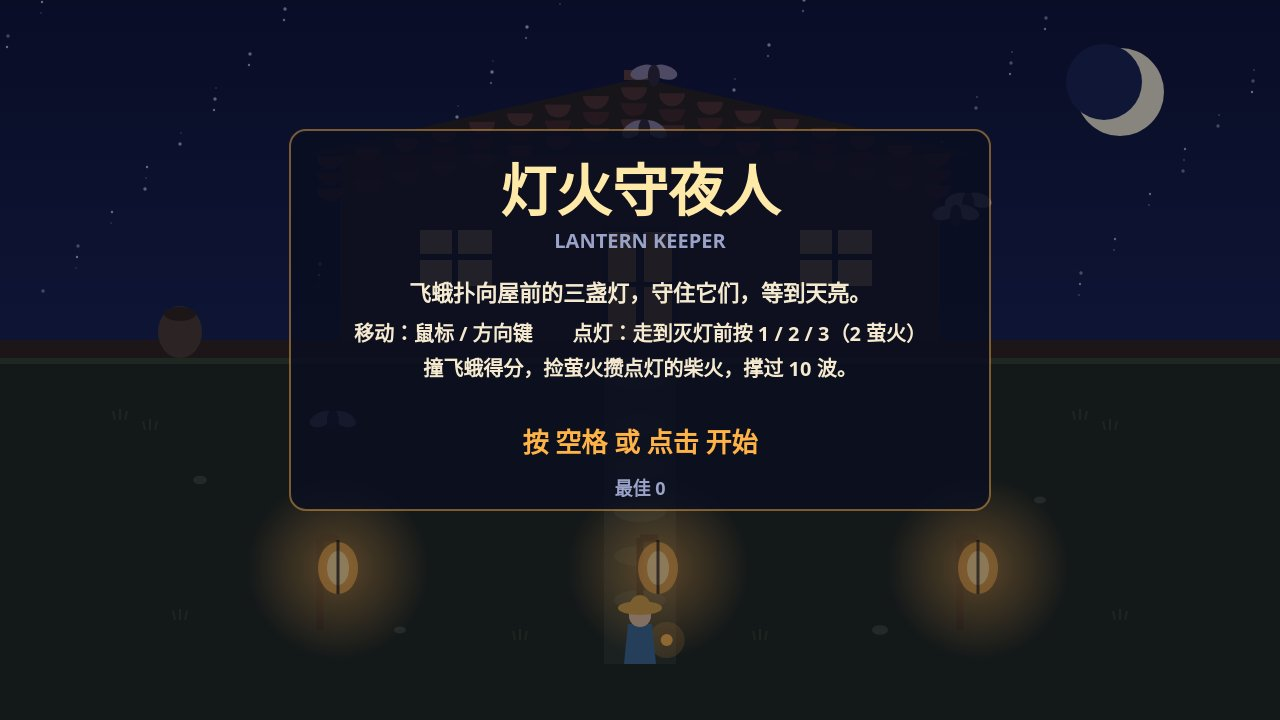
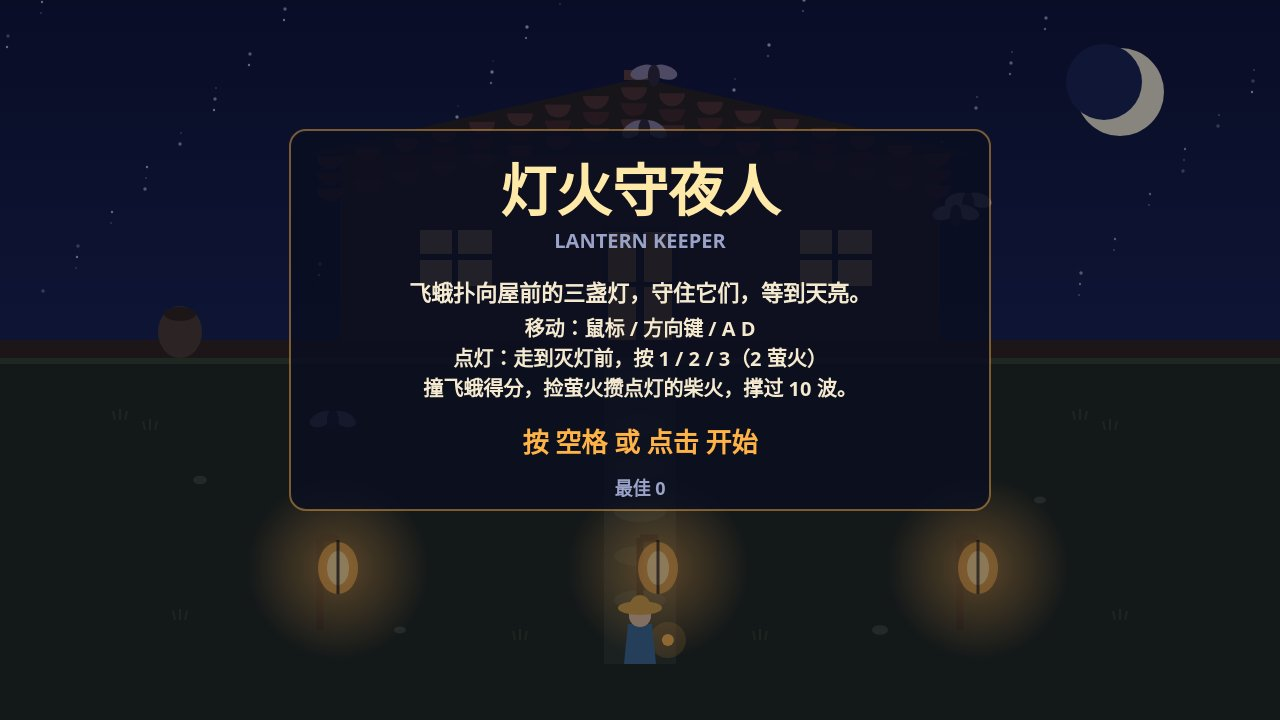
Round-2 playtest polish: keyboard takes back steering, pickup sound, letterbox resize, per-reason relight hints, swat arc, clean end screens

Changed region(s): [[0.2812, 0.4278, 0.7188, 0.55]]

diff --git a/game/src/render.js b/game/src/render.js
@@ -19,9 +19,37 @@ const STARS = Array.from({ length: 90 }, (_, i) => ({
 export function createRenderer(canvas) {
   const ctx = canvas.getContext('2d');
 
+  // The canvas bitmap follows the window, and the 1280x720 field is
+  // letterboxed inside it: on a 16:10 or 4:3 window the game keeps its
+  // shape instead of stretching, and the bars stay night-dark.
+  function resize() {
+    const dpr = Math.min(window.devicePixelRatio || 1, 2);
+    const w = Math.max(1, Math.round(canvas.clientWidth * dpr));
+    const h = Math.max(1, Math.round(canvas.clientHeight * dpr));
+    if (canvas.width !== w || canvas.height !== h) {
+      canvas.width = w;
+      canvas.height = h;
+    }
+  }
+
   function fit() {
+    resize();
     const scale = Math.min(canvas.width / FIELD.width, canvas.height / FIELD.height);
-    ctx.setTransform(scale, 0, 0, scale, 0, 0);
+    const offsetX = (canvas.width - FIELD.width * scale) / 2;
+    const offsetY = (canvas.height - FIELD.height * scale) / 2;
+    ctx.setTransform(1, 0, 0, 1, 0, 0);
+    ctx.fillStyle = PALETTE.skyTop;
+    ctx.fillRect(0, 0, canvas.width, canvas.height);
+    ctx.setTransform(scale, 0, 0, scale, offsetX, offsetY);
+  }
+
+  /** Map a pointer position (CSS pixels, viewport) to field coordinates. */
+  function toField(clientX, clientY) {
+    const rect = canvas.getBoundingClientRect();
+    const scale = Math.min(rect.width / FIELD.width, rect.height / FIELD.height);
+    const offsetX = (rect.width - FIELD.width * scale) / 2;
+    const offsetY = (rect.height - FIELD.height * scale) / 2;
+    return { x: (clientX - rect.left - offsetX) / scale, y: (clientY - rect.top - offsetY) / scale };
   }
 
   function sky(dawn) {
@@ -188,8 +216,17 @@ export function createRenderer(canvas) {
     ctx.globalAlpha = 1;
   }
 
-  function keeper(k) {
+  function keeper(k, sinceSwat) {
     const cx = k.x + k.width / 2;
+    // A brief swoosh above his raised hand when he swats, so the
+    // 0.35 s between swings is visible, not just a rule.
+    if (sinceSwat < 0.15) {
+      ctx.strokeStyle = `rgba(255, 233, 168, ${1 - sinceSwat / 0.15})`;
+      ctx.lineWidth = 4;
+      ctx.beginPath();
+      ctx.arc(cx, k.y - 18, 34, -Math.PI * 0.85, -Math.PI * 0.15);
+      ctx.stroke();
+    }
     // Small hand lantern, swinging at his side.
     const swing = Math.sin(performance.now() / 300) * 4;
     ctx.fillStyle = 'rgba(255, 179, 71, 0.22)';
@@ -345,9 +382,13 @@ export function createRenderer(canvas) {
     house(dawn);
     const time = state.time;
     for (let i = 0; i < 3; i += 1) lantern(LANES[i], state.lanterns[i], time);
-    for (const fly of state.pickups) firefly(fly);
-    for (const enemy of state.enemies) moth(enemy);
-    keeper(state.keeper);
+    // Once the night is won or lost, the courtyard is empty again:
+    // no moths or fireflies drifting over the end panel.
+    if (screen !== SCREEN_WIN && screen !== SCREEN_OVER) {
+      for (const fly of state.pickups) firefly(fly);
+      for (const enemy of state.enemies) moth(enemy);
+    }
+    keeper(state.keeper, state.time - state.swatAt);
     for (const pop of state.pops) {
       ctx.globalAlpha = Math.max(0, Math.min(1, pop.life));
       text(pop.text, pop.x, pop.y, 20, pop.colour, 'center');
@@ -361,8 +402,9 @@ export function createRenderer(canvas) {
       text('灯火守夜人', 640, 195, 56, PALETTE.lanternCore, 'center');
       text('LANTERN KEEPER', 640, 242, 20, PALETTE.muted, 'center');
       text('飞蛾扑向屋前的三盏灯，守住它们，等到天亮。', 640, 295, 22, PALETTE.text, 'center');
-      text('移动：鼠标 / 方向键　　点灯：走到灭灯前按 1 / 2 / 3（2 萤火）', 640, 335, 20, PALETTE.text, 'center');
-      text('撞飞蛾得分，捡萤火攒点灯的柴火，撑过 10 波。', 640, 370, 20, PALETTE.text, 'center');
+      text('移动：鼠标 / 方向键 / A D', 640, 330, 20, PALETTE.text, 'center');
+      text('点灯：走到灭灯前，按 1 / 2 / 3（2 萤火）', 640, 360, 20, PALETTE.text, 'center');
+      text('撞飞蛾得分，捡萤火攒点灯的柴火，撑过 10 波。', 640, 390, 20, PALETTE.text, 'center');
       text('按 空格 或 点击 开始', 640, 445, 26, PALETTE.lanternLit, 'center');
       text(`最佳 ${best}`, 640, 490, 18, PALETTE.muted, 'center');
     } else if (screen === SCREEN_PAUSED) {
@@ -392,5 +434,5 @@ export function createRenderer(canvas) {
     }
   }
 
-  return { draw };
+  return { draw, toField };
 }

diff --git a/game/src/world.js b/game/src/world.js
@@ -9,6 +9,7 @@ export const EVENT_OVER = 4;
 export const EVENT_WIN = 8;
 export const EVENT_WAVE = 16;
 export const EVENT_RELIGHT = 32;
+export const EVENT_PICKUP = 64;
 
 export const KIND_MOTH = 'moth';
 export const KIND_DART = 'dart';
@@ -55,6 +56,7 @@ export function createWorld(random) {
     won: false,
     waveClearBonusPaid: false,
     relightFailAt: -10,
+    relightFailMsg: '',
     /** Last time the keeper swung. */
     swatAt: -10,
   };
@@ -78,6 +80,7 @@ export function createWorld(random) {
     state.won = false;
     state.waveClearBonusPaid = false;
     state.relightFailAt = -10;
+    state.relightFailMsg = '';
     state.swatAt = -10;
   }
 
@@ -162,10 +165,16 @@ export function createWorld(random) {
         state.lanterns[relight] = true;
         events |= EVENT_RELIGHT;
         pop(LANES[relight], LANTERN_Y - 46, '点亮 +', '#ffe9a8');
-      } else if (!state.lanterns[relight] && state.time - state.relightFailAt > 1.5) {
-        // Tried and failed: say why, once, so the player can fix it.
-        state.relightFailAt = state.time;
-        pop(LANES[relight], LANTERN_Y - 46, near ? '萤火不够' : '走过去点灯', '#8b93a3');
+      } else if (!state.lanterns[relight]) {
+        // Tried and failed: say why, once per reason, so the player
+        // can fix it — walking over and pressing again right away
+        // must answer with the new reason, not silence.
+        const msg = near ? '萤火不够' : '走过去点灯';
+        if (msg !== state.relightFailMsg || state.time - state.relightFailAt > 1.5) {
+          state.relightFailAt = state.time;
+          state.relightFailMsg = msg;
+          pop(LANES[relight], LANTERN_Y - 46, msg, '#8b93a3');
+        }
       }
     }
 
@@ -280,7 +289,7 @@ export function createWorld(random) {
         }
         pop(fly.x, fly.y, '+萤火', '#c8ff7a');
         state.pickups.splice(i, 1);
-        events |= EVENT_HIT;
+        events |= EVENT_PICKUP;
       } else if (fly.y > FIELD.groundY) {
         state.pickups.splice(i, 1);
       }

diff --git a/game/src/input.js b/game/src/input.js
@@ -4,7 +4,7 @@ export const ACTION_CONFIRM = 1;
 export const ACTION_PAUSE = 2;
 export const ACTION_RESTART = 4;
 
-export function createInput(canvas) {
+export function createInput(canvas, toField) {
   const keys = new Set();
   let actions = 0;
   let pointerX = null;
@@ -13,6 +13,10 @@ export function createInput(canvas) {
   function keyDown(event) {
     if (['ArrowLeft', 'ArrowRight', 'Space'].includes(event.code)) event.preventDefault();
     if (event.repeat) return;
+    // Pressing a movement key takes steering back from the pointer:
+    // otherwise the arrow keys stay dead for the rest of the visit
+    // after a single mouse move.
+    if (['ArrowLeft', 'ArrowRight', 'KeyA', 'KeyD'].includes(event.code)) pointerX = null;
     keys.add(event.code);
     if (event.code === 'Space' || event.code === 'Enter') actions |= ACTION_CONFIRM;
     if (event.code === 'KeyP' || event.code === 'Escape') actions |= ACTION_PAUSE;
@@ -27,8 +31,11 @@ export function createInput(canvas) {
   }
 
   function pointerMove(event) {
-    const rect = canvas.getBoundingClientRect();
-    pointerX = ((event.clientX - rect.left) / rect.width) * 1280;
+    if (toField) pointerX = toField(event.clientX, event.clientY).x;
+    else {
+      const rect = canvas.getBoundingClientRect();
+      pointerX = ((event.clientX - rect.left) / rect.width) * 1280;
+    }
   }
 
   function pointerDown(event) {

diff --git a/game/src/main.js b/game/src/main.js
@@ -7,7 +7,7 @@
 // and sets window.__shotReady for a screenshot.
 import { BEST_KEY, STEP } from './config.js';
 import { createRandom } from './random.js';
-import { createWorld, EVENT_HIT, EVENT_OUT, EVENT_OVER, EVENT_RELIGHT, EVENT_WAVE, EVENT_WIN } from './world.js';
+import { createWorld, EVENT_HIT, EVENT_OUT, EVENT_OVER, EVENT_PICKUP, EVENT_RELIGHT, EVENT_WAVE, EVENT_WIN } from './world.js';
 import { ACTION_CONFIRM, ACTION_PAUSE, ACTION_RESTART, createInput } from './input.js';
 import { createAudio } from './audio.js';
 import { createRenderer, SCREEN_OVER, SCREEN_PAUSED, SCREEN_PLAY, SCREEN_TITLE, SCREEN_WIN } from './render.js';
@@ -56,7 +56,7 @@ function runShot(name) {
 }
 
 function runGame() {
-  const input = createInput(canvas);
+  const input = createInput(canvas, renderer.toField);
   let screen = SCREEN_TITLE;
   let best = readBest();
   let accumulator = 0;
@@ -105,6 +105,7 @@ function runGame() {
     const relight = input.takeRelight();
     const events = world.step(STEP, input.direction(world.state.keeper.x + world.state.keeper.width / 2), relight, false);
     if (events & EVENT_HIT) audio.swat();
+    if (events & EVENT_PICKUP) audio.pickup();
     if (events & EVENT_OUT) audio.lanternOut();
     if (events & EVENT_RELIGHT) audio.relight();
     if (events & EVENT_WAVE) {
